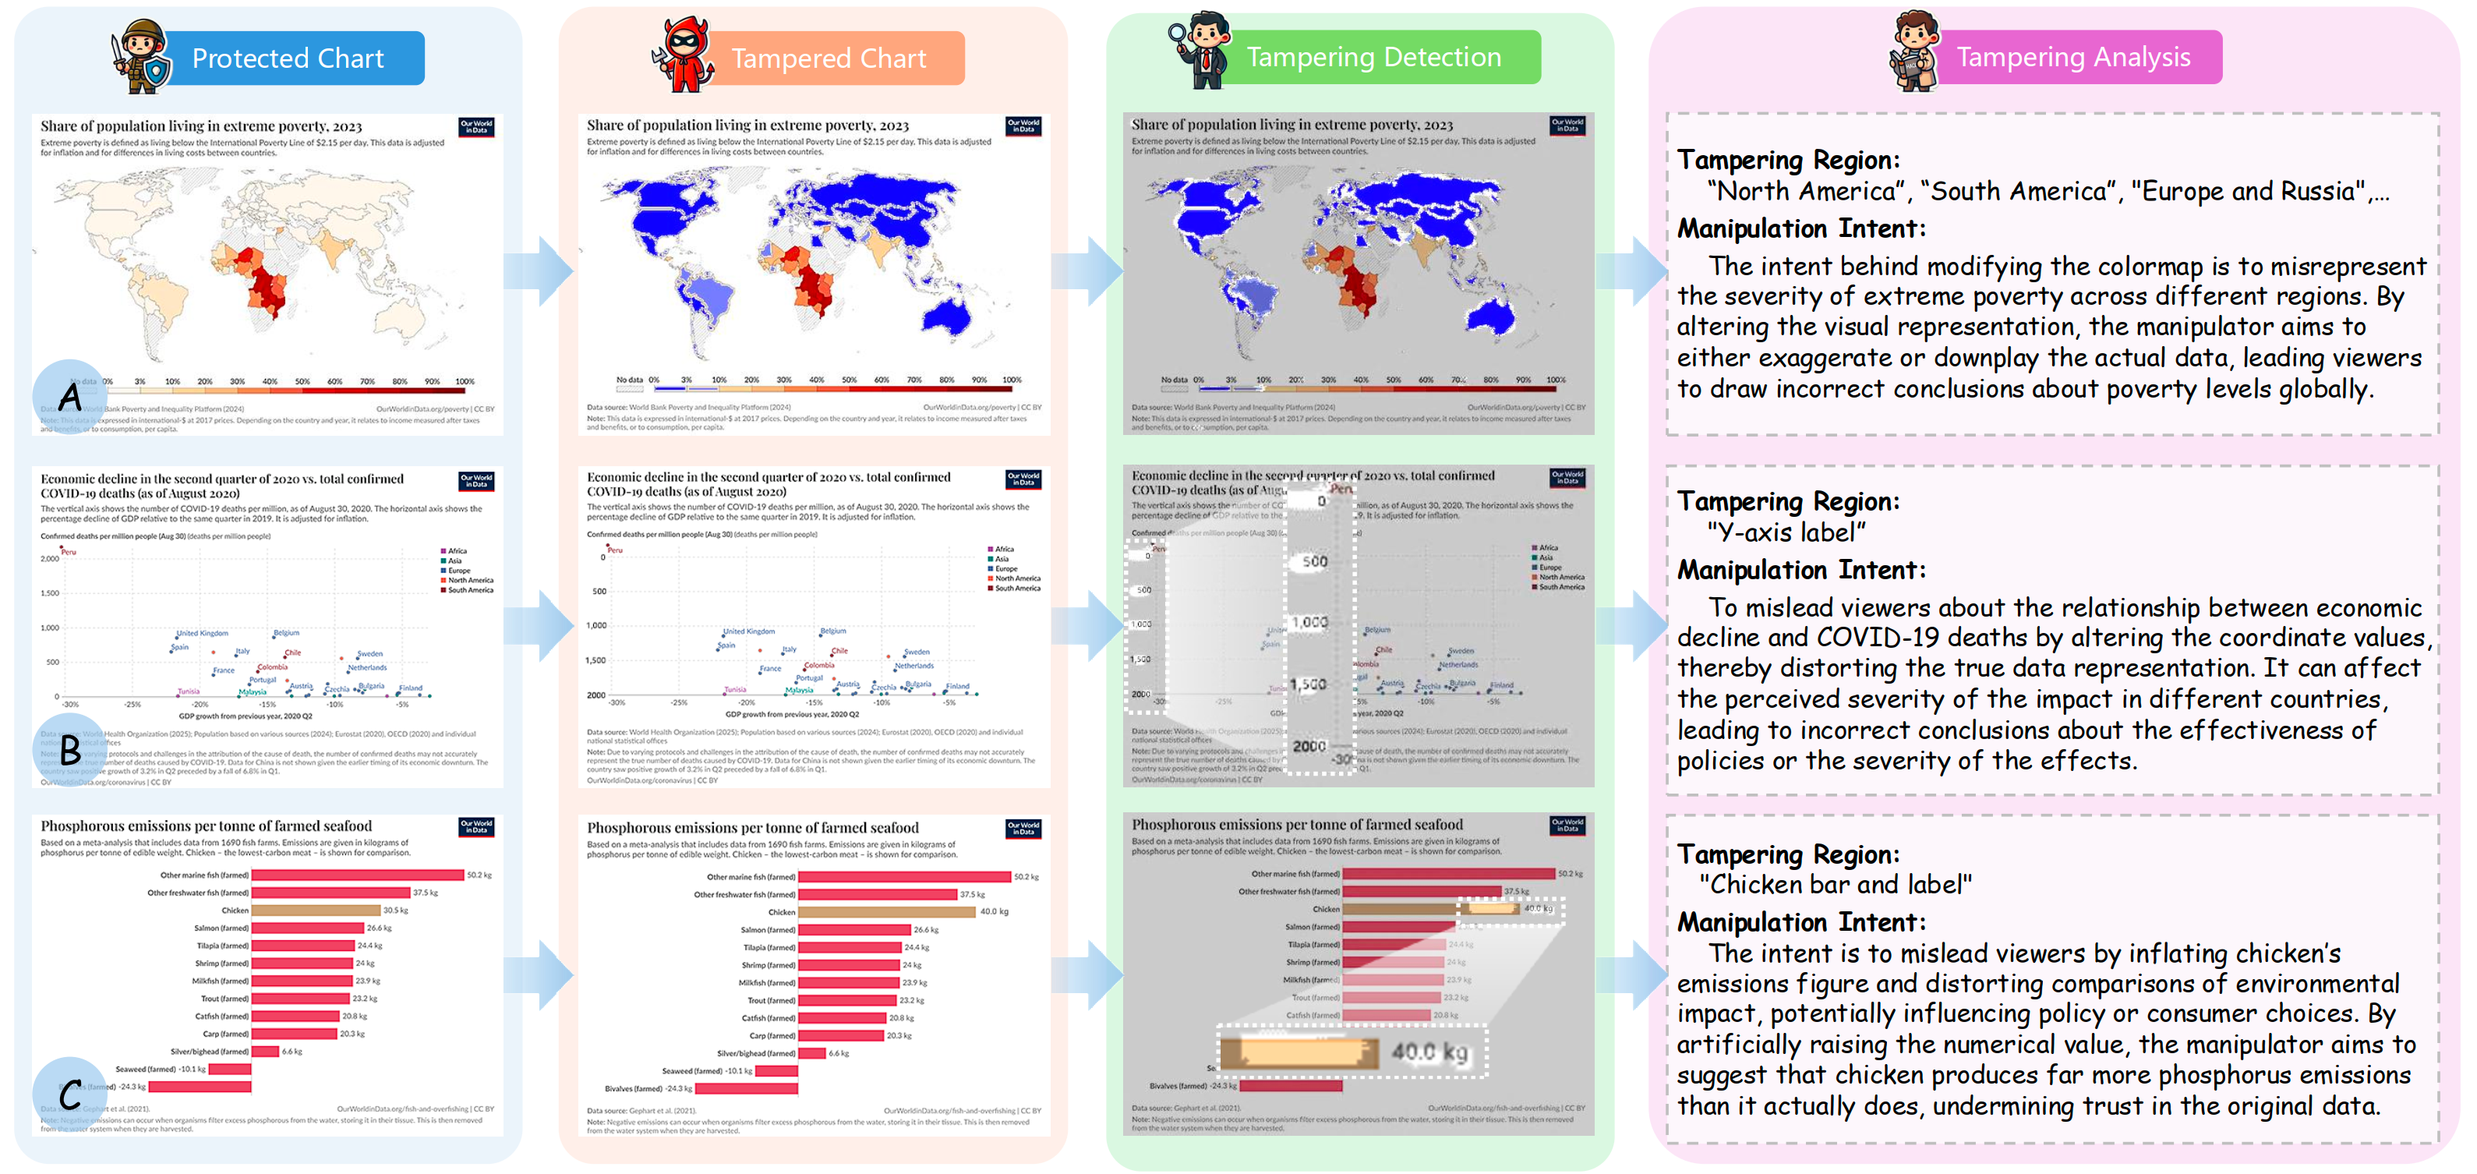
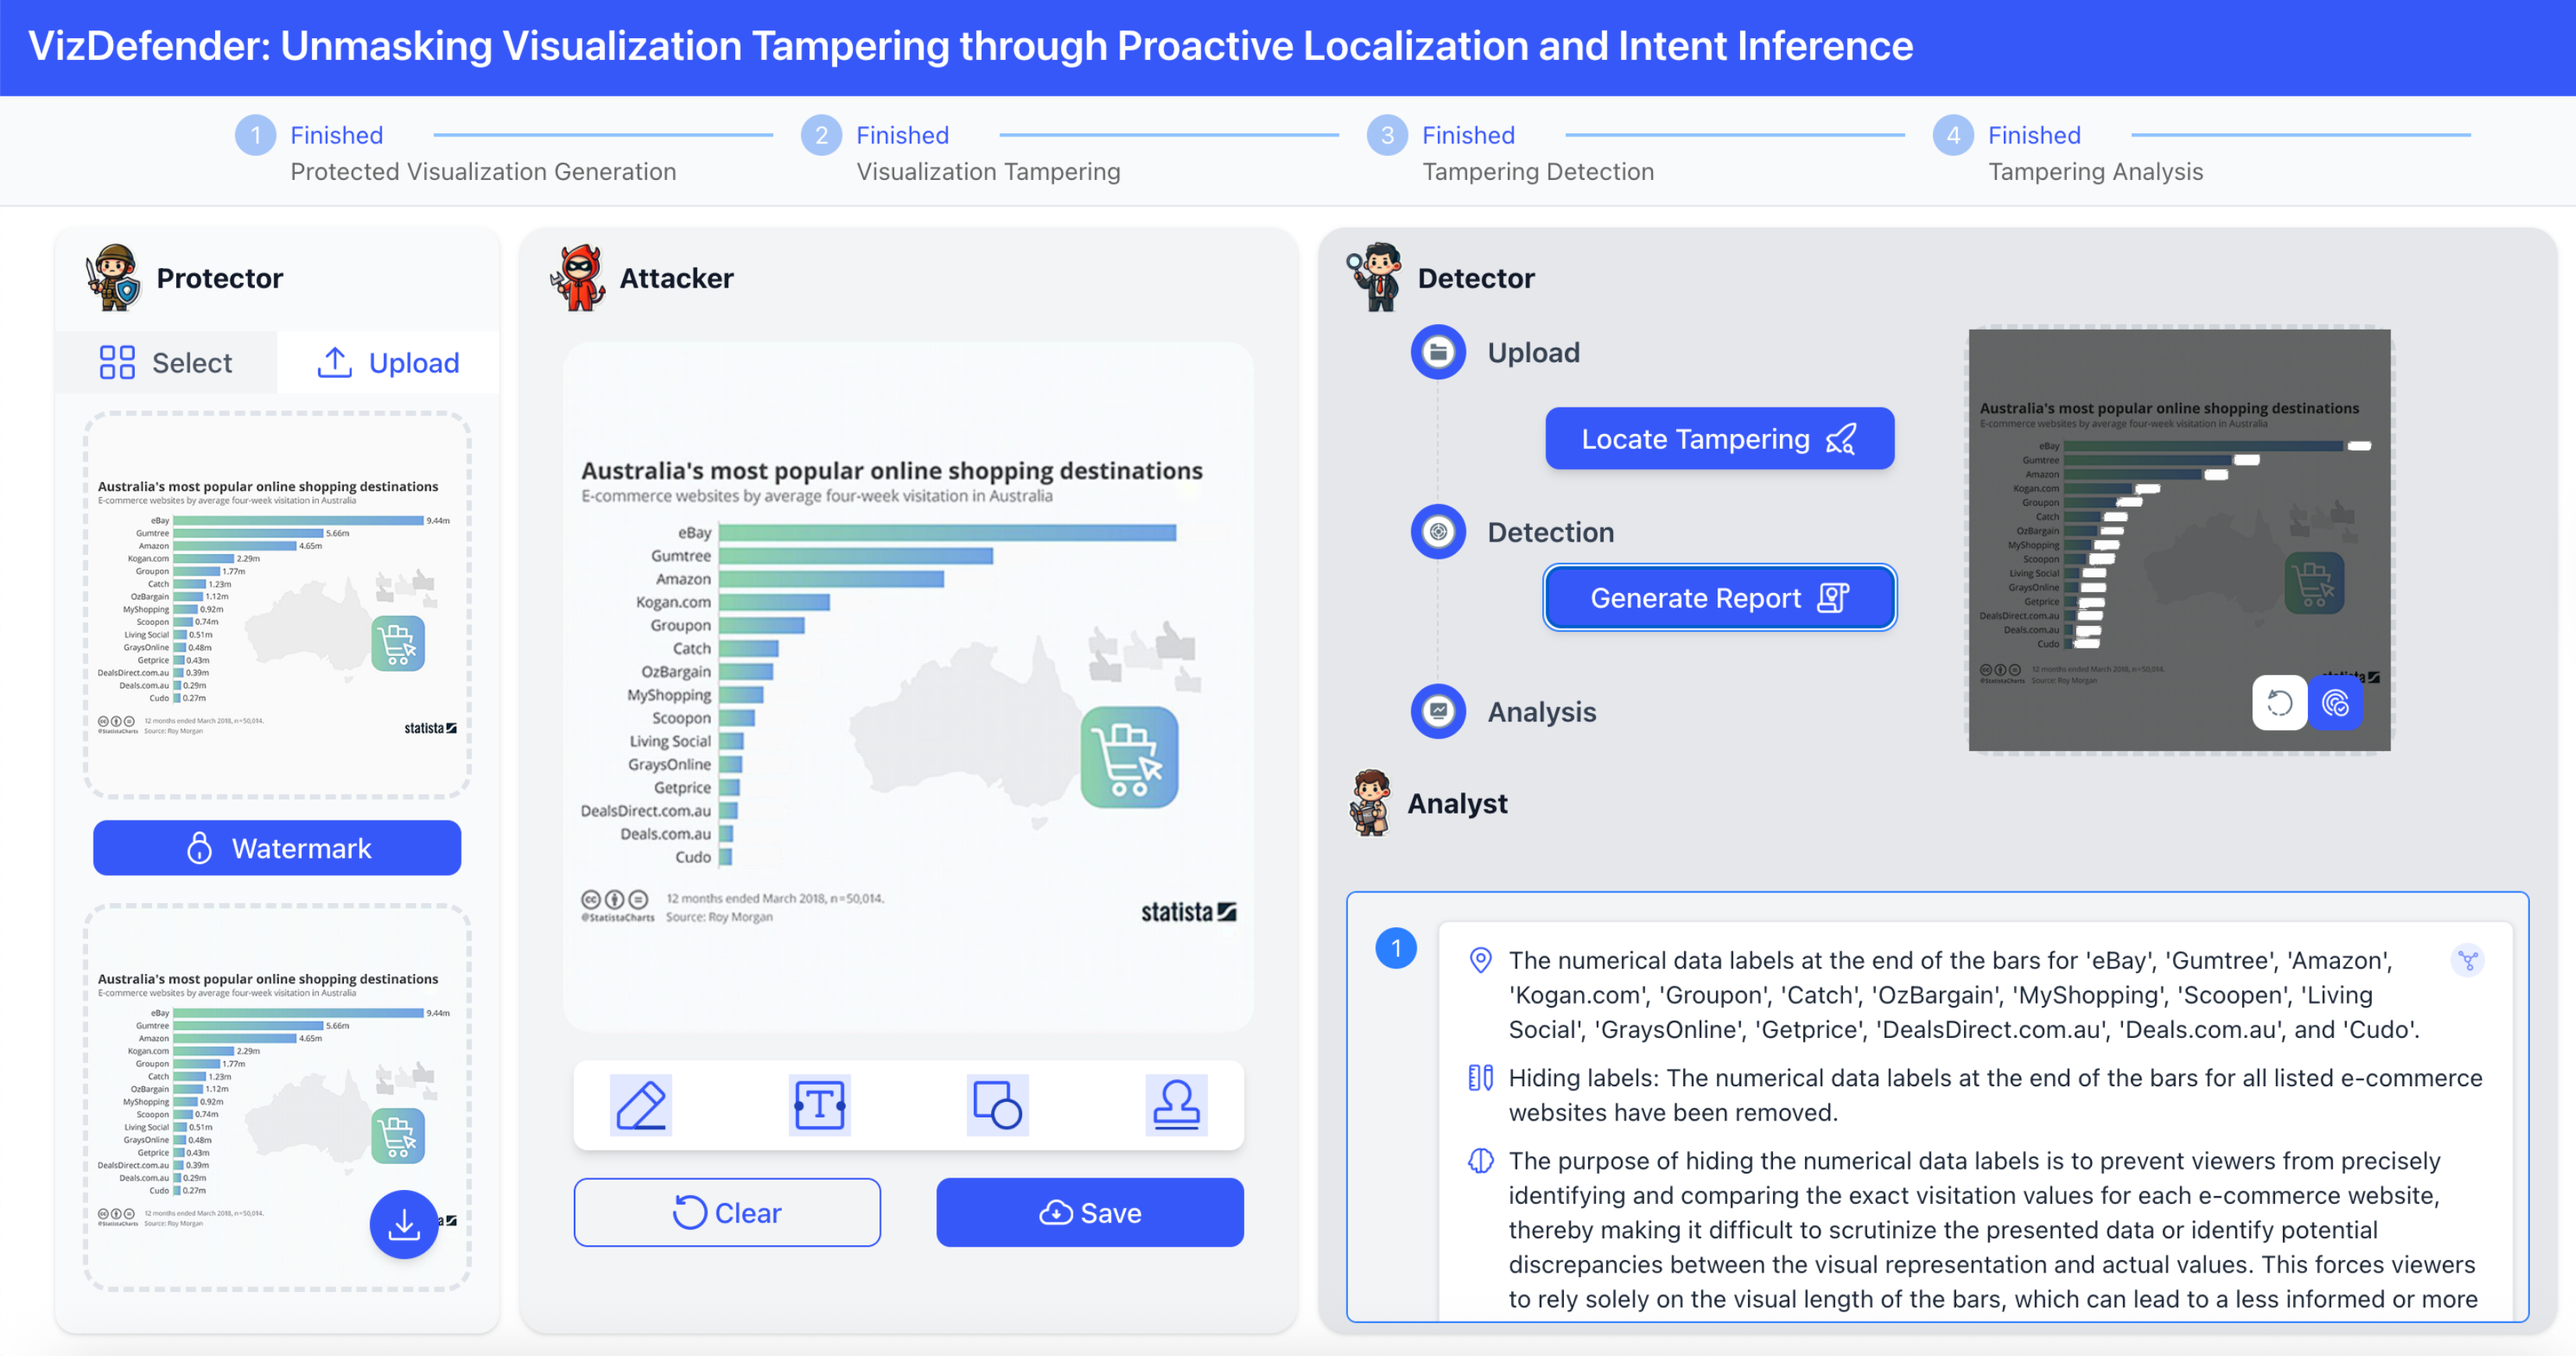
update information

diff --git a/index.html b/index.html
@@ -104,7 +104,7 @@
 
       <div class="w3-container w3-card w3-white w3-margin-bottom">
         <h2 class="w3-text-grey w3-padding-16">Hello, I am <u>Sicheng Song</u>.</h2>
-        <p>I am an associate professor (tenure-track) at the School of Data Science and Engineering, East China Normal University. Previously, I worked as a postdoctoral fellow in the <a href="http://http://vis.cse.ust.hk/">Vislab</a> team (advised by <a href="http://www.huamin.org/">Prof. Huamin Qu</a>) of the Hong Kong University of Science and Technology (HKUST). I received Ph.D. from the School of Computer Science and Technology at East China Normal University (ECNU), advised by <a href="https://faculty.ecnu.edu.cn/_s16/wzb/main.psp">Prof. Changbo Wang</a>, and <a href="http://chenhui.li/">
+        <p>I am an associate professor (tenure-track) at the School of Data Science and Engineering, East China Normal University. Previously, I worked as a postdoctoral fellow in the <a href="http://vis.cse.ust.hk/">Vislab</a> team (advised by <a href="http://www.huamin.org/">Prof. Huamin Qu</a>) of the Hong Kong University of Science and Technology (HKUST). I received Ph.D. from the School of Computer Science and Technology at East China Normal University (ECNU), advised by <a href="https://faculty.ecnu.edu.cn/_s16/wzb/main.psp">Prof. Changbo Wang</a>, and <a href="http://chenhui.li/">
             Prof. Chenhui Li</a>. I work on the research of graph visualization, reverse visualization,
           human-computer interaction, and AI4VIS. </p>
       </div>
@@ -124,7 +124,7 @@
             <p style="color:#a2a2a2"><a href="paper/Vizdefender.pdf" style="text-decoration: none;">PDF</a> | <a href="video/Vizdefender.mp4" style="text-decoration: none;">VIDEO</a></p>
           </div>
           <div style="clear: both;"></div> <!-- 清除浮动效果 -->
-          <hr style="margin-top: 10px; margin-bottom: 10px">
+          <hr style="margin-top: -10px; margin-bottom: 10px">
         </div>
 
 
@@ -136,7 +136,7 @@
           <div style="float: left; width: 78%; margin-left:10px">
             <p class="w3-opacity" style="margin-top: -3px; margin-bottom: -10px; line-height:1.2"><b>Unmasking Deceptive Visuals: Benchmarking Multimodal Large Language Models on Misleading Chart Question Answering</b></p>
             <p style="margin-bottom: -10px; color:#a2a2a2">Zixin Chen, <span style="color:black">Sicheng Song*,</span> Kashun Shum, Yanna Lin, Rui Sheng, Huamin Qu</p>
-            <p style="margin-bottom: -10px; color:#a2a2a2"><i>EMNLP Main Conference, 2025 (CORE A*, CCF B)</i></p>
+            <p style="margin-bottom: -10px; color:#a2a2a2"><i>EMNLP Main Conference (<i class="fas fa-award"></i> Oral), 2025 (CCF B)</i></p>
             <p style="color:#a2a2a2"><a href="paper/unmasking.pdf" style="text-decoration: none;">PDF</a> </p>
           </div>
           <div style="clear: both;"></div> <!-- 清除浮动效果 -->
@@ -214,7 +214,7 @@
             <p style="color:#a2a2a2"><a href="paper/iARVis.pdf" style="text-decoration: none;">PDF</a> | <a href="https://github.com/iARVis/iARVis-Client" style="text-decoration: none;">CODE</a> | <a href="video/iARVis.mp4" style="text-decoration: none;">VIDEO</a></p>
           </div>
           <div style="clear: both;"></div> <!-- 清除浮动效果 -->
-          <hr style="margin-top: 5px; margin-bottom: 10px">
+          <hr style="margin-top: 10px; margin-bottom: 10px">
         </div>
 
         <div class="w3-container" style="margin-top: 5px; line-height: 1em">
@@ -229,7 +229,7 @@
             <p style="color:#a2a2a2"><a href="paper/GraphDecoder.pdf" style="text-decoration: none;">PDF</a> | <a href="video/GraphDecoder.mp4" style="text-decoration: none;">VIDEO</a></p>
           </div>
           <div style="clear: both;"></div> <!-- 清除浮动效果 -->
-          <hr style="margin-top: 5px; margin-bottom: 10px">
+          <hr style="margin-top: -10px; margin-bottom: 10px">
         </div>
 
 
